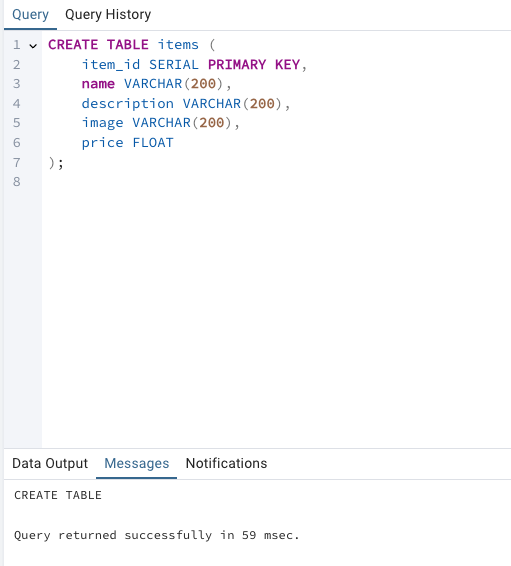
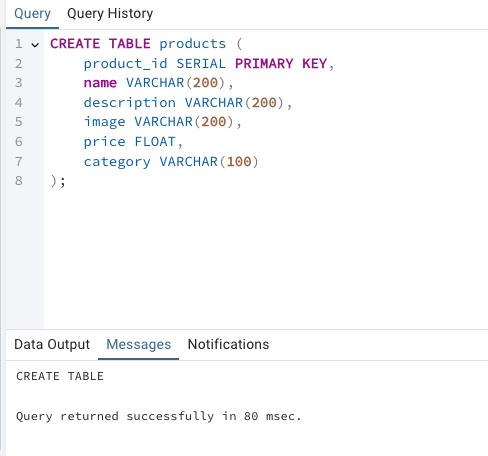
fixes

diff --git a/src/pages/flowers.vue b/src/pages/flowers.vue
@@ -34,10 +34,10 @@ const calculatePriceWithDiscount = (price, discountPercentage) => {
     <v-card v-for="flower in listOfFlowers" :key="flower.name" class="mx-auto" max-width="344" variant="tonal">
       <v-img :src="flower.image" max-height="300" cover />
       <v-card-title>{{ flower.name }}</v-card-title>
-      <div v-if="hasDiscount(flower.id)">
+      <div v-if="hasDiscount(flower.product_id)">
         <v-card-subtitle class="text-decoration-line-through">Price: ${{ flower.price.toFixed(2) }}</v-card-subtitle>
-        <v-card-subtitle v-if="hasDiscount(flower.id)">Price: ${{ calculatePriceWithDiscount(flower.price,
-          productsStore.getProductDiscount(flower.id)) }}</v-card-subtitle>
+        <v-card-subtitle v-if="hasDiscount(flower.product_id)">Price: ${{ calculatePriceWithDiscount(flower.price,
+          productsStore.getProductDiscount(flower.product_id)) }}</v-card-subtitle>
       </div>
       <v-card-subtitle v-else>Price: ${{ flower.price.toFixed(2) }}</v-card-subtitle>
       <v-card-text max-height="300">{{ flower.description }}</v-card-text>

diff --git a/src/pages/trees.vue b/src/pages/trees.vue
@@ -33,10 +33,10 @@ const calculatePriceWithDiscount = (price, discountPercentage) => {
     <v-card v-for="tree in listOfTrees" :key="tree.name" class="mx-auto" max-width="344" variant="tonal">
       <v-img :src="tree.image" max-height="300" cover />
       <v-card-title>{{ tree.name }}</v-card-title>
-      <div v-if="hasDiscount(tree.id)">
+      <div v-if="hasDiscount(tree.product_id)">
         <v-card-subtitle class="text-decoration-line-through">Price: ${{ tree.price.toFixed(2) }}</v-card-subtitle>
-        <v-card-subtitle v-if="hasDiscount(tree.id)">Price: ${{ calculatePriceWithDiscount(tree.price,
-          productsStore.getProductDiscount(tree.id)) }}</v-card-subtitle>
+        <v-card-subtitle v-if="hasDiscount(tree.product_id)">Price: ${{ calculatePriceWithDiscount(tree.price,
+          productsStore.getProductDiscount(tree.product_id)) }}</v-card-subtitle>
       </div>
       <v-card-subtitle v-else>Price: ${{ tree.price.toFixed(2) }}</v-card-subtitle>
       <v-card-text max-height="300">{{ tree.description }}</v-card-text>

diff --git a/src/stores/cart.js b/src/stores/cart.js
@@ -15,12 +15,12 @@ export const useCartStore = defineStore('cart', {
   },
   actions: {
     addItem(item) {
-      const existingItem = this.items.get(item.id);
+      const existingItem = this.items.get(item.product_id);
       if(existingItem !== undefined){
         existingItem.quantity++;
       } else {
           this.items.set(
-            item.id,
+            item.product_id,
             {
               ...item,
               quantity: 1

diff --git a/docs/db-setup.md b/docs/db-setup.md
@@ -74,7 +74,7 @@ INSERT INTO products (name, description, image, price, category) VALUES
 After pasting the code, click on the "Execute Script" button to run the query. If successful, you should see a message indicating that the command was executed successfully.
 
 It should look like this in the query tool:
-![alt text](./images/insert-items-data.png)
+![alt text](./images/insert-products-data.png)
 
 4. Confirm that the data was inserted successfully by running a simple `SELECT` query. In the query tool, type:
 
@@ -82,4 +82,4 @@ It should look like this in the query tool:
 SELECT * FROM products;
 ```
 
-![alt text](./images/select-from-items.png)
+![alt text](./images/select-from-products.png)
